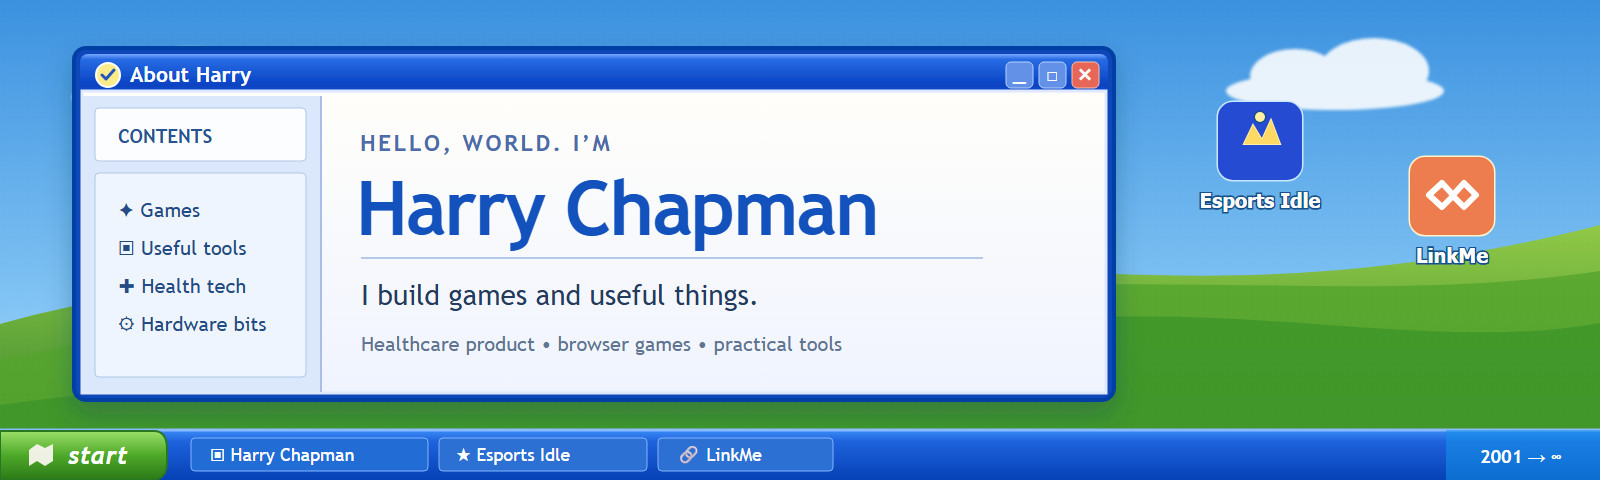
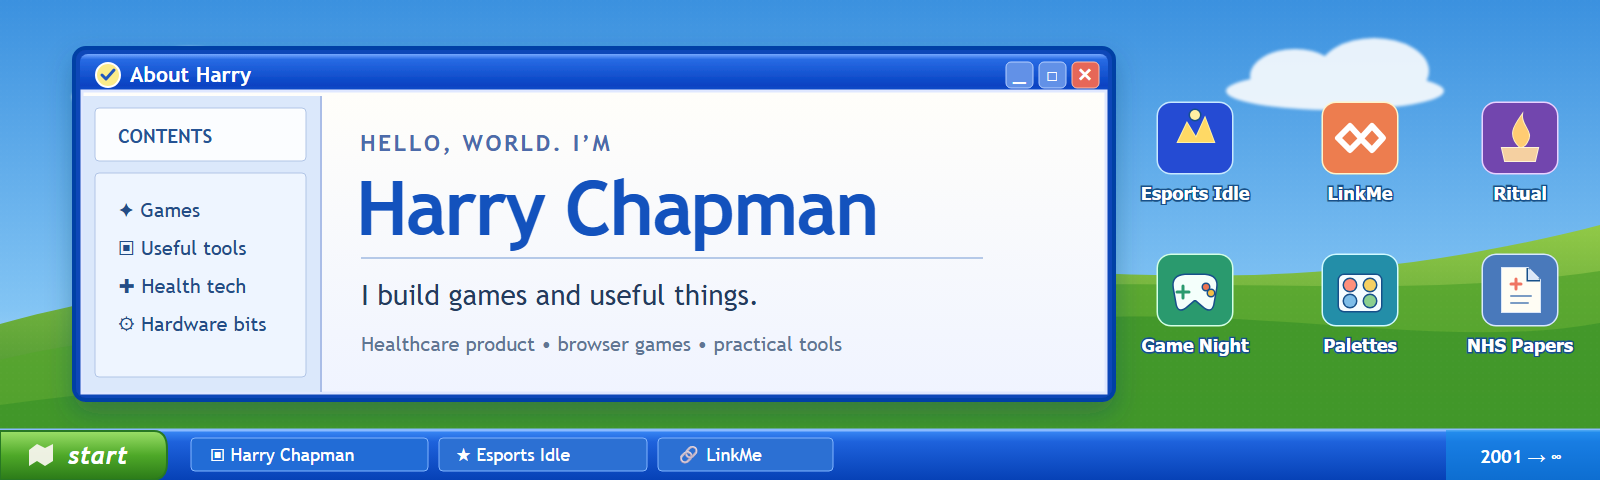
Restore profile voice and expand XP project shortcuts

Changed region(s): [[0.6875, 0.1875, 1.0, 0.75], [0.6875, 0.5312, 0.7812, 0.75]]

diff --git a/README.md b/README.md
@@ -1,33 +1,49 @@
-![Windows XP inspired desktop banner: Harry Chapman, games and useful things](banner.png)
+![Harry Chapman desktop banner with shortcuts to my projects](banner.png)
 
-# Hi, I'm Harry 👋
+# Hi, I'm Harry.
 
-I'm a healthcare product manager with an impatience for boring. Outside work, I make browser games and tools for those oddly specific moments when you think, *surely there’s a better way to do this?*
+Product-minded builder turning awkward real-world problems into useful, accessible products across software, data, AI and hardware.
 
-## Currently open on my desktop
+I work at the intersection of healthcare and product delivery, and outside of that I build things that fix annoyingly specific problems I actually have, a scraper for NHS board papers, an accessible colour-palette tool, a companion device that sits on my desk. I'd rather ship something small and honestly-documented than something impressive-sounding and untested.
 
-### 🏆 [Esports Idle](https://hazzjc.github.io/esportsidle/)
+## What I build
 
-Start with a garage squad. Scout players, build teams, chase championships, grow a commercial empire, and eventually take your esports organisation into orbit. It's an incremental game with much more going on than the first click suggests.
+- **Games** — browser games built to be played with friends or returned to for one more round, from an esports management idle game to a four-clue party quiz.
+- **Practical products** — tools built to solve one real problem well, like a group game-night planner or a duck-race decision randomizer.
+- **Accessible & data tools** — WCAG-compliant colour generation, NHS board-paper scraping, and cost-modelling calculators for healthcare decision-makers.
+- **Creative software** — small, emotionally-considered experiences, like a "write it and burn it" expressive-writing ritual.
+- **Hardware** — porting open firmware to new physical boards, with the engineering and constraints documented, not just the result.
 
-**[Play Esports Idle →](https://hazzjc.github.io/esportsidle/)** · [Explore the code](https://github.com/HazzJC/esportsidle)
+## Featured projects
 
-### 🔗 [LinkMe](https://linkme-5d3.pages.dev/)
+**[Esports Idle](https://github.com/HazzJC/esportsidle)** — start with a garage squad, then scout players, manage seasons, chase championships, and grow the business behind the team through merch and sponsorships. The incremental game eventually takes your organisation all the way to orbit. [Play in your browser](https://hazzjc.github.io/esportsidle/).
 
-Four clues. One hidden link. A room full of friends trying to buzz in first. My Linkee-inspired party quiz supports up to 16 players, phone-friendly lobbies, a TV screen mode, and custom question packs.
+**[LinkMe](https://linkme-5d3.pages.dev/)** — a Linkee-inspired party quiz for up to 16 friends: four trivia answers share one hidden link, and the first to buzz in scores. Phone-friendly lobbies, TV screen mode, and custom packs make it work for an actual game night. [Play in your browser](https://linkme-5d3.pages.dev/).
 
-**[Play LinkMe →](https://linkme-5d3.pages.dev/)**
+**[WhatShouldWePlay](https://github.com/HazzJC/WhatShouldWePlay)** — friend groups waste more time deciding what to play than actually playing; this matches everyone's availability and game preferences into an actual plan. [Live demo](https://what-should-we-play-chi.vercel.app) · 163 automated tests, green CI.
 
-## More things I've made
+**[Ritual](https://github.com/HazzJC/writeitdownripitup)** — counsellors often suggest writing a letter you'll never send; this gives that ritual a screen, then burns what you wrote. [Live demo](https://ritual.harryjameschapman.com) · privacy claim ("nothing is saved or sent") verified by code review and live network capture, not just asserted.
 
-| If you want to… | Try this |
-| --- | --- |
-| Stop the group chat from debating what to play | [WhatShouldWePlay](https://what-should-we-play-chi.vercel.app) |
-| Set fire to a letter you'll never send | [Ritual](https://ritual.harryjameschapman.com) |
-| Build a colour palette that actually passes contrast checks | [Accessible Palettes](https://hazzjc.github.io/AccessiblePalettesWCAGColourPaletteGenerator/) |
-| Find NHS board papers across scattered sites | [NHS Evidence Scraper](https://github.com/HazzJC/NHSTrustPaperScraper) |
-| Put a desktop AI companion on a round display | [Claude Desktop Buddy Waveshare port](https://github.com/HazzJC/claude-desktop-buddy-waveshare-1-85c) |
+**[Accessible Palettes](https://github.com/HazzJC/AccessiblePalettesWCAGColourPaletteGenerator)** — most palette generators don't check contrast at all; this generates 3–16 colour swatches and validates them against real WCAG AA/AAA thresholds. [Live tool](https://hazzjc.github.io/AccessiblePalettesWCAGColourPaletteGenerator/).
 
-I like clear constraints, accessible interfaces, and checking whether a product's claims hold up in real use. Sometimes that means testing contrast maths; sometimes it means trying to break my own game with friends.
+**[NHS Evidence Scraper](https://github.com/HazzJC/NHSTrustPaperScraper)** — NHS trust board papers are scattered across dozens of separate sites with no unified index; this crawls and indexes them, with rate-limiting and retry handling. AI-assisted features exist in the codebase and are clearly labelled experimental/untested, not presented as production-ready.
 
-[More about me ↗](https://harryjameschapman.com)
+**[Claude Desktop Buddy — Waveshare port](https://github.com/HazzJC/claude-desktop-buddy-waveshare-1-85c)** — porting Anthropic's open Claude Desktop Buddy firmware to a round 360×360 ESP32-S3 display meant a new board driver, remapped touch controller, and a square UI re-centred into a round frame. Upstream vs. original work is documented commit-by-commit.
+
+**[Devices Over Time](https://github.com/HazzJC/DevicesOverTime)** — a visual, interactive timeline of my own device history, built to be genuinely browsable rather than a static list. [Live site](https://devices-over-time.pages.dev).
+
+## How I work
+
+- **Constraint-led decisions** — I document *why* something was built a certain way (e.g. why Ritual has no server and no save feature), not just what it does.
+- **Rapid validation over polish-first** — ship something real, then check the claims hold up. I like to re-verify my projects from scratch (privacy claims tested against actual network traffic, contrast maths checked against the real WCAG formula)
+- **Accessibility by default** — from WCAG-validated colour tooling to plain, honest UI copy.
+- **Privacy-conscious** — the tools that handle sensitive personal content (expressive writing, NHS-adjacent data) are built to keep as little as possible, and I try to prove that rather than just claim it.
+- **Honest about limitations** — untested features get labelled untested. Dead links get fixed, not left. If something doesn't have a test suite yet, the README says so instead of implying otherwise.
+
+## Interested in
+
+Technical product roles, implementation and delivery, innovation teams, digital transformation, and health-tech specifically, with a focus on AI and personalised treatment. Where "does this actually work for the person using it" matters as much as the roadmap.
+
+## Elsewhere
+
+[harryjameschapman.com](https://harryjameschapman.com)
